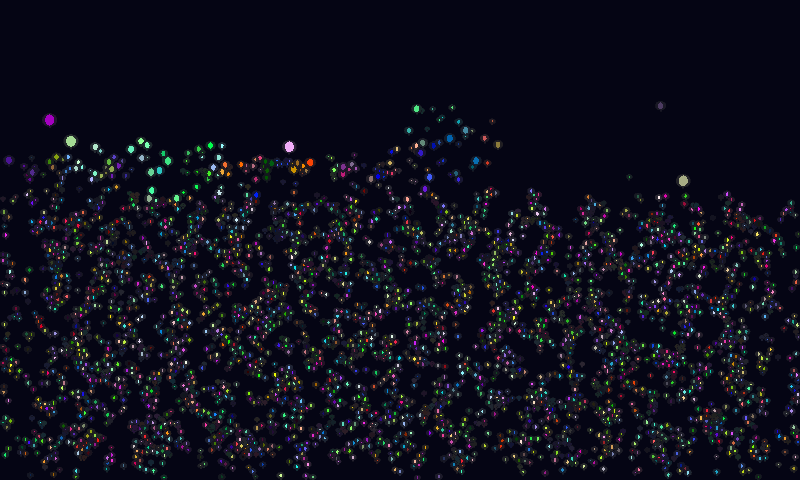
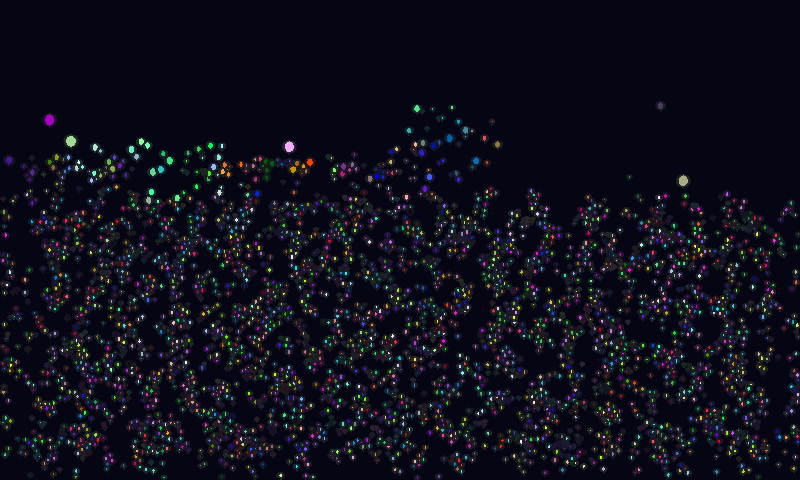
docs(pizza): refresh capacity captures for bounded gravity
The tick-60 fixture exports and 120-update lab counts now come from b7b2b43. The point-mass baseline reproduces the earlier ff21581 values, so the differences come from bounded gravity. The Pi section also notes the host's catch-up updates per frame.

diff --git a/docs/pizza-capacity.md b/docs/pizza-capacity.md
@@ -37,13 +37,15 @@ The live client's existing `status` response also includes `pizza.population`: b
 
 ## Local functional evidence
 
-At source `ff21581`, Rust 1.89 release, seed 7, 800×480, 120 updates, all four normal fixtures completed with coherent physical counts:
+At source `b7b2b43`, Rust 1.89 release, seed 7, 800×480, 120 updates, all four normal fixtures completed with coherent physical counts:
 
 | Initial / budget | Final live balls | Exploded | Fragments created | Updates with explosions |
 | --- | ---: | ---: | ---: | ---: |
 | 500 / 500 | 434 | 90 | 24 | 46 |
-| 1,000 / 1,000 | 805 | 242 | 47 | 82 |
-| 2,500 / 2,500 | 1,685 | 1,135 | 320 | 113 |
-| 5,000 / 5,000 | 3,263 | 3,196 | 1,459 | 119 |
+| 1,000 / 1,000 | 797 | 244 | 41 | 83 |
+| 2,500 / 2,500 | 1,728 | 1,229 | 457 | 113 |
+| 5,000 / 5,000 | 3,275 | 3,201 | 1,476 | 119 |
 
-These are actual bodies, not render-only particles. Desktop timing collected alongside compilation is not a controlled baseline and is not used as a Pi performance claim. The initial 5,000-body snapshots and subsequent cascade snapshots in `docs/screenshots/pizza-capacity` identify their precise population and tick in the accompanying manifest. The menu screenshot comes from the live local client at the target dimensions; the physical scene images are fixture exports through the production raster renderer. The refreshed captures include the viewport and continuous collision detection corrections. Temporary Pi 4 GPU runs and their limitations are recorded in the [device investigation](pizza-cascade-profile.md).
+[Bounded gravity](pizza-bounded-gravity.md) changed the three larger fixtures; point-mass builds from `ff21581` through `7839926` end them at 805, 1,685 and 3,263 live balls.
+
+These are actual bodies, not render-only particles. Desktop timing collected alongside compilation is not a controlled baseline and is not used as a Pi performance claim. The initial 5,000-body snapshots and subsequent cascade snapshots in `docs/screenshots/pizza-capacity` identify their precise population and tick in the accompanying manifest. The menu screenshot comes from the live local client at the target dimensions; the physical scene images are fixture exports through the production raster renderer. The refreshed captures include the viewport, continuous collision detection and bounded-gravity corrections; the tick-0 snapshot is unchanged. Temporary Pi 4 GPU runs and their limitations are recorded in the [device investigation](pizza-cascade-profile.md).

diff --git a/docs/pizza-bounded-gravity.md b/docs/pizza-bounded-gravity.md
@@ -199,7 +199,10 @@ only about 3% on the Pi; desktop worst-update gains overstate the device gain.
 
 With the field On, the bounded runs keep the UI core busier (85% against 81%)
 and saturated for longer (14–15 s against 10.3–10.4 s). Their flip p95 and p99
-are worse, although their longest captured flip interval is shorter. With the
+are worse, although their longest captured flip interval is shorter. These
+intervals mostly reflect catch-up: during the event, the status reports up to
+3.1 updates per rendered frame with point mass and 3.5–3.6 with bounded gravity,
+all on the UI thread. With the
 field Off, the bounded cascade happens to be smaller (at most 357 live balls
 against 500), so that run is lighter; Off cascades are chaotic under both laws.
 
@@ -273,9 +276,10 @@ builds.
 
 This removes the CCD stall, not the Pi 4 frame-budget problem. With the field
 On, both laws keep the UI core above 80% busy, flip p95 is 83–100 ms, and
-contact-bound updates still take about 100 ms on the device. Narrow-phase and
-solver cost is the next target. The device comparison covers seed 7 only; a
-multi-seed device comparison needs a seed argument in the capture script. Pi 5
-remains offline. The existing capacity screenshots record the earlier physics
-(`ff21581`); the 800×480 mixed 5,000 fixture now has 3,471 bodies after 60
+contact-bound updates still take about 100 ms on the device. Frame scheduling
+and narrow-phase and solver cost are the next targets. The device comparison
+covers seed 7 only; a multi-seed device comparison needs a seed argument in the
+capture script. Pi 5 remains offline. The capacity fixture screenshots and
+[functional counts](pizza-capacity.md#local-functional-evidence) now record
+bounded gravity: the 800×480 mixed 5,000 fixture has 3,471 bodies after 60
 updates instead of 3,434. PR #505 stays draft.
